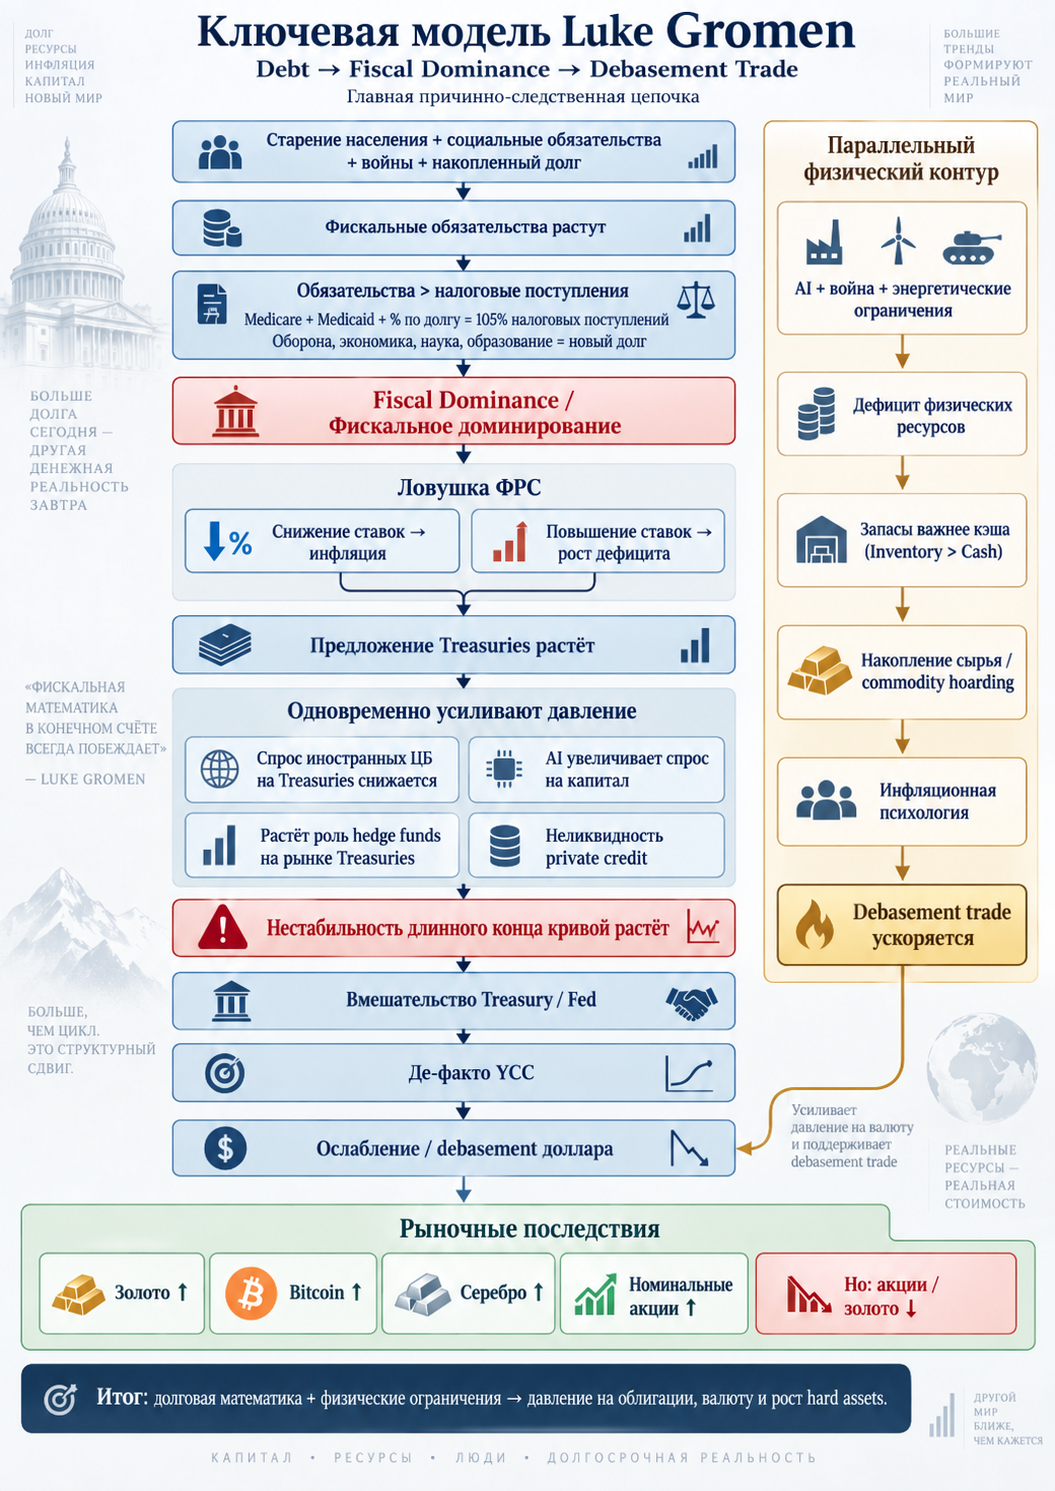
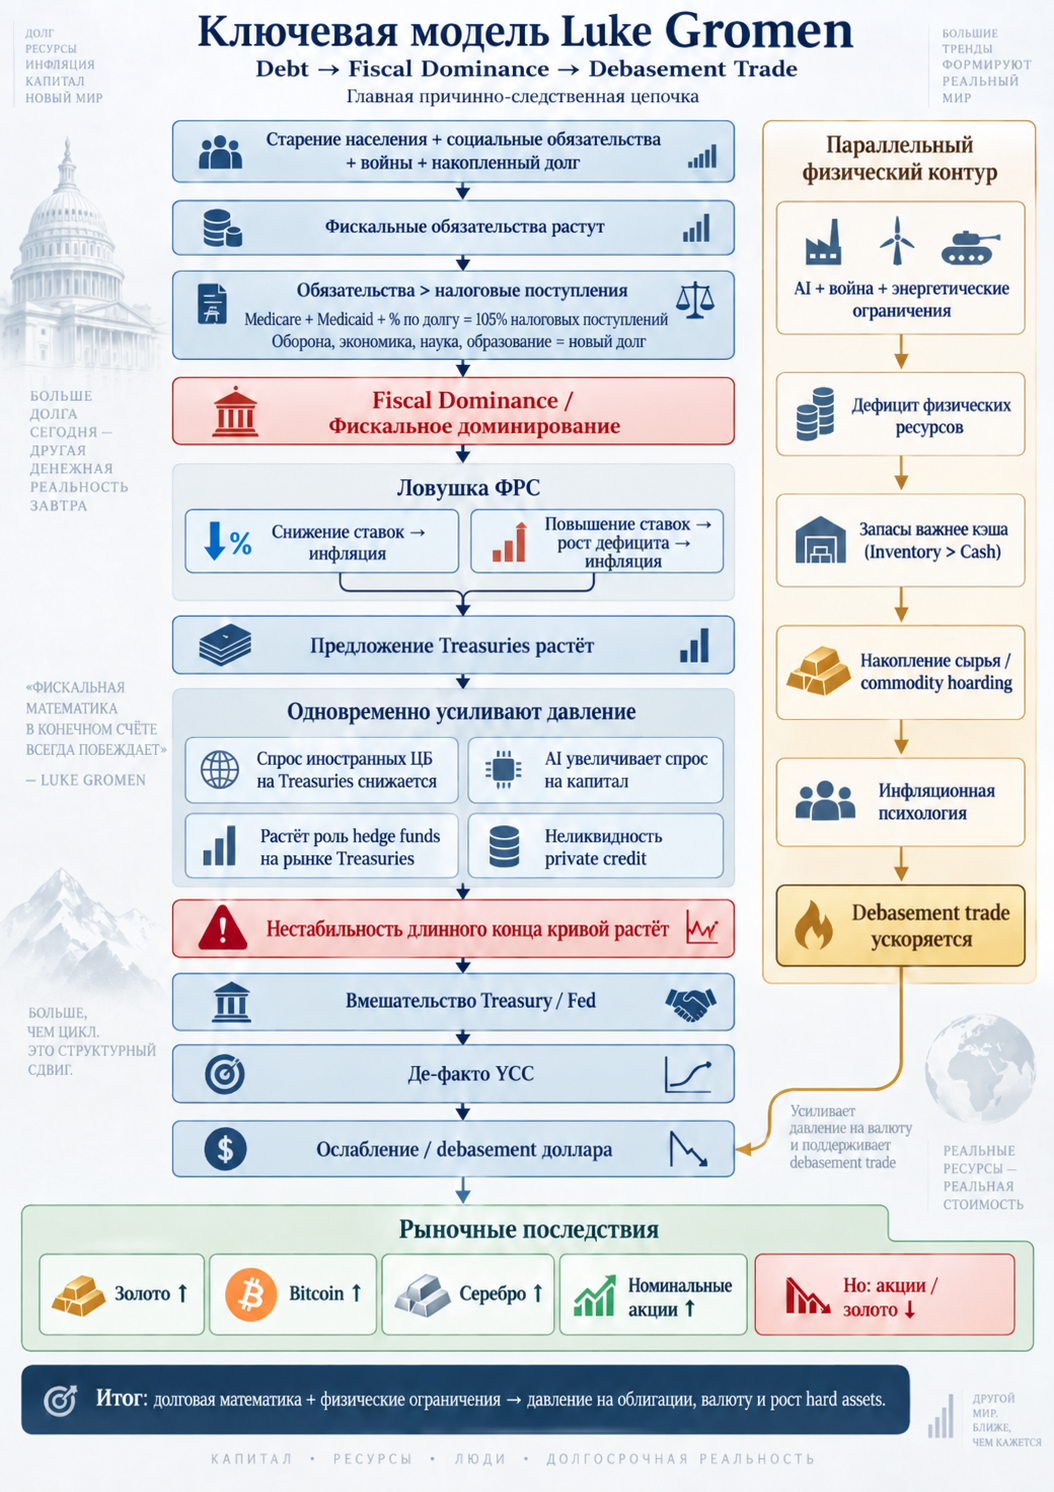
Standardize Knowledge Base infographic sizing

diff --git a/knowledge_base_tab.py b/knowledge_base_tab.py
@@ -9,16 +9,16 @@ HOWELL_INFOGRAPHIC_PATH = KNOWLEDGE_BASE_DIR / "howell_debt_liquidity_cycle.png"
 HOWELL_PRESENTATION_DIR = KNOWLEDGE_BASE_DIR / "presentation"
 LUKE_GROMEN_INFOGRAPHICS = (
     (
+        KNOWLEDGE_BASE_DIR / "luke_gromen_debt_debasement.png",
+        "Долговая математика и дебасмент доллара",
+    ),
+    (
         KNOWLEDGE_BASE_DIR / "luke_gromen_macro_analysis_framework.png",
         "Luke Gromen — Macro Analysis Framework",
     ),
     (
         KNOWLEDGE_BASE_DIR / "luke_gromen_gold_model.png",
         "Золото в модели Luke Gromen",
-    ),
-    (
-        KNOWLEDGE_BASE_DIR / "luke_gromen_debt_debasement.png",
-        "Долговая математика и дебасмент доллара",
     ),
 )
 LYN_ALDEN_INFOGRAPHIC_PATH = KNOWLEDGE_BASE_DIR / "lyn_alden_financial_framework.png"
@@ -40,18 +40,27 @@ HELICOPTER_VIEW_INFOGRAPHIC_PATH = (
 )
 
 
+def _render_infographics(infographics: tuple[tuple[Path, str], ...]) -> None:
+    """Render infographics two per row at the same width as Howell's image."""
+    for row_start in range(0, len(infographics), 2):
+        columns = st.columns(2)
+        row_infographics = infographics[row_start : row_start + 2]
+        for column, (infographic_path, caption) in zip(columns, row_infographics):
+            with column:
+                st.image(
+                    str(infographic_path),
+                    caption=caption,
+                    use_container_width=True,
+                )
+
+
 def render_knowledge_base_tab() -> None:
     """Render Michael Howell materials as one knowledge-base block."""
     with st.container(border=True):
         st.subheader("Michael Howell")
-
-        infographic_column, _ = st.columns(2)
-        with infographic_column:
-            st.image(
-                str(HOWELL_INFOGRAPHIC_PATH),
-                caption="The Howell Model — Debt–Liquidity Cycle",
-                use_container_width=True,
-            )
+        _render_infographics(
+            ((HOWELL_INFOGRAPHIC_PATH, "The Howell Model — Debt–Liquidity Cycle"),)
+        )
 
         slide_paths = sorted(HOWELL_PRESENTATION_DIR.glob("slide-*.jpg"))
         if slide_paths:
@@ -74,42 +83,31 @@ def render_knowledge_base_tab() -> None:
 
     with st.container(border=True):
         st.subheader("Luke Gromen")
-        for infographic_path, caption in LUKE_GROMEN_INFOGRAPHICS:
-            st.image(
-                str(infographic_path),
-                caption=caption,
-                use_container_width=True,
-            )
+        _render_infographics(LUKE_GROMEN_INFOGRAPHICS)
 
     with st.container(border=True):
         st.subheader("Lyn Alden")
-        st.image(
-            str(LYN_ALDEN_INFOGRAPHIC_PATH),
-            caption="Модель Lyn Alden — финансовый инфографический маршрут",
-            use_container_width=True,
+        _render_infographics(
+            (
+                (
+                    LYN_ALDEN_INFOGRAPHIC_PATH,
+                    "Модель Lyn Alden — финансовый инфографический маршрут",
+                ),
+            )
         )
 
     with st.container(border=True):
         st.subheader("Brent Johnson")
-        st.image(
-            str(BRENT_JOHNSON_INFOGRAPHIC_PATH),
-            caption="Brent Johnson — Dollar Milkshake Model",
-            use_container_width=True,
+        _render_infographics(
+            ((BRENT_JOHNSON_INFOGRAPHIC_PATH, "Brent Johnson — Dollar Milkshake Model"),)
         )
 
     with st.container(border=True):
         st.subheader("Jeff Snyder")
-        for infographic_path, caption in JEFF_SNYDER_INFOGRAPHICS:
-            st.image(
-                str(infographic_path),
-                caption=caption,
-                use_container_width=True,
-            )
+        _render_infographics(JEFF_SNYDER_INFOGRAPHICS)
 
     with st.container(border=True):
         st.subheader("Helicopter View")
-        st.image(
-            str(HELICOPTER_VIEW_INFOGRAPHIC_PATH),
-            caption="Единый механизм глобальной ликвидности",
-            use_container_width=True,
+        _render_infographics(
+            ((HELICOPTER_VIEW_INFOGRAPHIC_PATH, "Единый механизм глобальной ликвидности"),)
         )

diff --git a/tests/test_knowledge_base_tab.py b/tests/test_knowledge_base_tab.py
@@ -8,9 +8,9 @@ APP_SOURCE = ROOT / "app.py"
 TAB_SOURCE = ROOT / "knowledge_base_tab.py"
 PRESENTATION_DIR = ROOT / "knowledge_base" / "presentation"
 LUKE_GROMEN_INFOGRAPHICS = (
+    ROOT / "knowledge_base" / "luke_gromen_debt_debasement.png",
     ROOT / "knowledge_base" / "luke_gromen_macro_analysis_framework.png",
     ROOT / "knowledge_base" / "luke_gromen_gold_model.png",
-    ROOT / "knowledge_base" / "luke_gromen_debt_debasement.png",
 )
 LYN_ALDEN_INFOGRAPHIC = ROOT / "knowledge_base" / "lyn_alden_financial_framework.png"
 BRENT_JOHNSON_INFOGRAPHIC = (
@@ -59,7 +59,8 @@ class KnowledgeBaseContentTests(unittest.TestCase):
 
     def test_infographic_is_half_width_and_all_presentation_slides_render_without_a_selector(self):
         tab = TAB_SOURCE.read_text(encoding="utf-8")
-        self.assertIn("infographic_column, _ = st.columns(2)", tab)
+        self.assertIn("def _render_infographics", tab)
+        self.assertIn("columns = st.columns(2)", tab)
         self.assertIn("for row_start in range(0, len(slide_paths), 2):", tab)
         self.assertNotIn("st.selectbox", tab)
 
@@ -86,7 +87,11 @@ class KnowledgeBaseContentTests(unittest.TestCase):
         tab = TAB_SOURCE.read_text(encoding="utf-8")
 
         self.assertIn('st.subheader("Luke Gromen")', tab)
-        self.assertIn("for infographic_path, caption in LUKE_GROMEN_INFOGRAPHICS:", tab)
+        self.assertIn("_render_infographics(LUKE_GROMEN_INFOGRAPHICS)", tab)
+        self.assertEqual(
+            LUKE_GROMEN_INFOGRAPHICS[0].name,
+            "luke_gromen_debt_debasement.png",
+        )
         for infographic_path in LUKE_GROMEN_INFOGRAPHICS:
             self.assertTrue(infographic_path.is_file(), infographic_path)
 
@@ -94,21 +99,21 @@ class KnowledgeBaseContentTests(unittest.TestCase):
         tab = TAB_SOURCE.read_text(encoding="utf-8")
 
         self.assertIn('st.subheader("Lyn Alden")', tab)
-        self.assertIn('str(LYN_ALDEN_INFOGRAPHIC_PATH)', tab)
+        self.assertIn("LYN_ALDEN_INFOGRAPHIC_PATH,", tab)
         self.assertTrue(LYN_ALDEN_INFOGRAPHIC.is_file())
 
     def test_brent_johnson_block_includes_infographic(self):
         tab = TAB_SOURCE.read_text(encoding="utf-8")
 
         self.assertIn('st.subheader("Brent Johnson")', tab)
-        self.assertIn('str(BRENT_JOHNSON_INFOGRAPHIC_PATH)', tab)
+        self.assertIn("BRENT_JOHNSON_INFOGRAPHIC_PATH,", tab)
         self.assertTrue(BRENT_JOHNSON_INFOGRAPHIC.is_file())
 
     def test_jeff_snyder_block_includes_all_infographics(self):
         tab = TAB_SOURCE.read_text(encoding="utf-8")
 
         self.assertIn('st.subheader("Jeff Snyder")', tab)
-        self.assertIn("for infographic_path, caption in JEFF_SNYDER_INFOGRAPHICS:", tab)
+        self.assertIn("_render_infographics(JEFF_SNYDER_INFOGRAPHICS)", tab)
         for infographic_path in JEFF_SNYDER_INFOGRAPHICS:
             self.assertTrue(infographic_path.is_file(), infographic_path)
 
@@ -116,8 +121,18 @@ class KnowledgeBaseContentTests(unittest.TestCase):
         tab = TAB_SOURCE.read_text(encoding="utf-8")
 
         self.assertIn('st.subheader("Helicopter View")', tab)
-        self.assertIn('str(HELICOPTER_VIEW_INFOGRAPHIC_PATH)', tab)
+        self.assertIn("HELICOPTER_VIEW_INFOGRAPHIC_PATH,", tab)
         self.assertTrue(HELICOPTER_VIEW_INFOGRAPHIC.is_file())
+
+    def test_all_infographic_blocks_use_the_shared_half_width_renderer(self):
+        tab = TAB_SOURCE.read_text(encoding="utf-8")
+
+        self.assertIn("((HOWELL_INFOGRAPHIC_PATH,", tab)
+        self.assertIn("_render_infographics(LUKE_GROMEN_INFOGRAPHICS)", tab)
+        self.assertIn("LYN_ALDEN_INFOGRAPHIC_PATH,", tab)
+        self.assertIn("((BRENT_JOHNSON_INFOGRAPHIC_PATH,", tab)
+        self.assertIn("_render_infographics(JEFF_SNYDER_INFOGRAPHICS)", tab)
+        self.assertIn("((HELICOPTER_VIEW_INFOGRAPHIC_PATH,", tab)
 
 
 if __name__ == "__main__":
